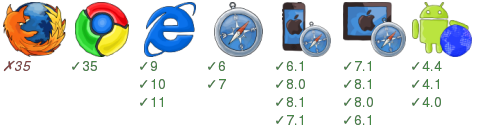
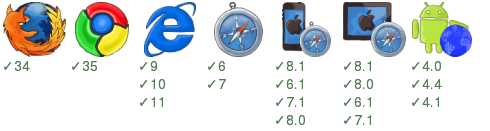
Auto commit smoke test results for c48af0c67b83befda5d6ab1f65b2c6b62d1c2a49 [ci skip]

diff --git a/examples/00hello/badge.html b/examples/00hello/badge.html
@@ -13,7 +13,7 @@ div{vertical-align:top;overflow:hidden;display:inline-block;width:92px;padding:4
 <body>
 <div>
 <img src="/home/travis/build/zordius/fluxex/examples/00hello/node_modules/badge-render/browser-badge/static/firefox.png" />
-<i>&#x2717;35</i>
+<p>&#x2713;34</p>
 </div><div>
 <img src="/home/travis/build/zordius/fluxex/examples/00hello/node_modules/badge-render/browser-badge/static/chrome.png" />
 <p>&#x2713;35</p>
@@ -28,20 +28,20 @@ div{vertical-align:top;overflow:hidden;display:inline-block;width:92px;padding:4
 <p>&#x2713;7</p>
 </div><div>
 <img src="/home/travis/build/zordius/fluxex/examples/00hello/node_modules/badge-render/browser-badge/static/iphone.png" />
-<p>&#x2713;6.1</p>
-<p>&#x2713;8.0</p>
 <p>&#x2713;8.1</p>
+<p>&#x2713;6.1</p>
 <p>&#x2713;7.1</p>
+<p>&#x2713;8.0</p>
 </div><div>
 <img src="/home/travis/build/zordius/fluxex/examples/00hello/node_modules/badge-render/browser-badge/static/ipad.png" />
-<p>&#x2713;7.1</p>
 <p>&#x2713;8.1</p>
 <p>&#x2713;8.0</p>
 <p>&#x2713;6.1</p>
+<p>&#x2713;7.1</p>
 </div><div>
 <img src="/home/travis/build/zordius/fluxex/examples/00hello/node_modules/badge-render/browser-badge/static/android-browser.png" />
+<p>&#x2713;4.0</p>
 <p>&#x2713;4.4</p>
 <p>&#x2713;4.1</p>
-<p>&#x2713;4.0</p>
 </div></body>
 </html>
